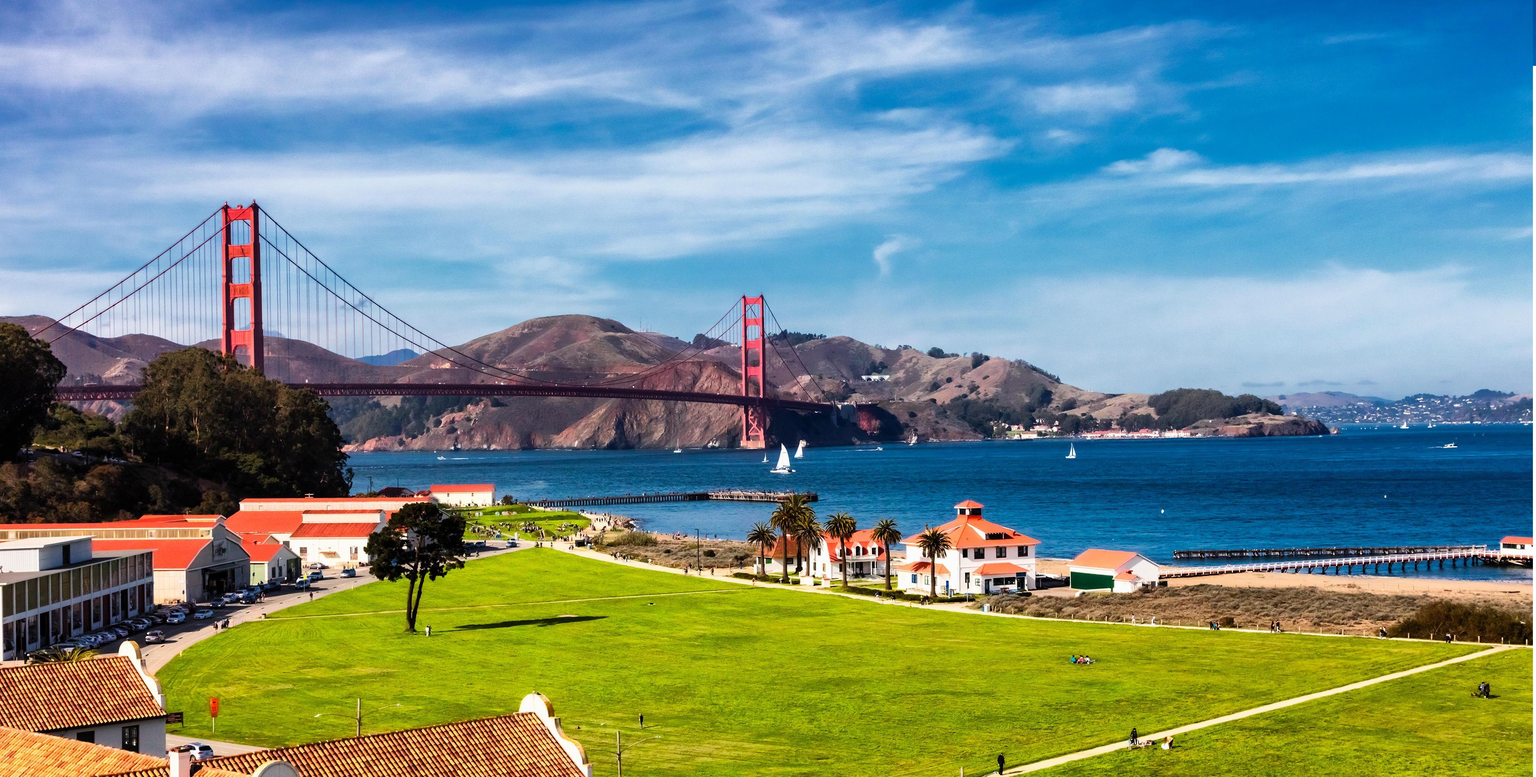
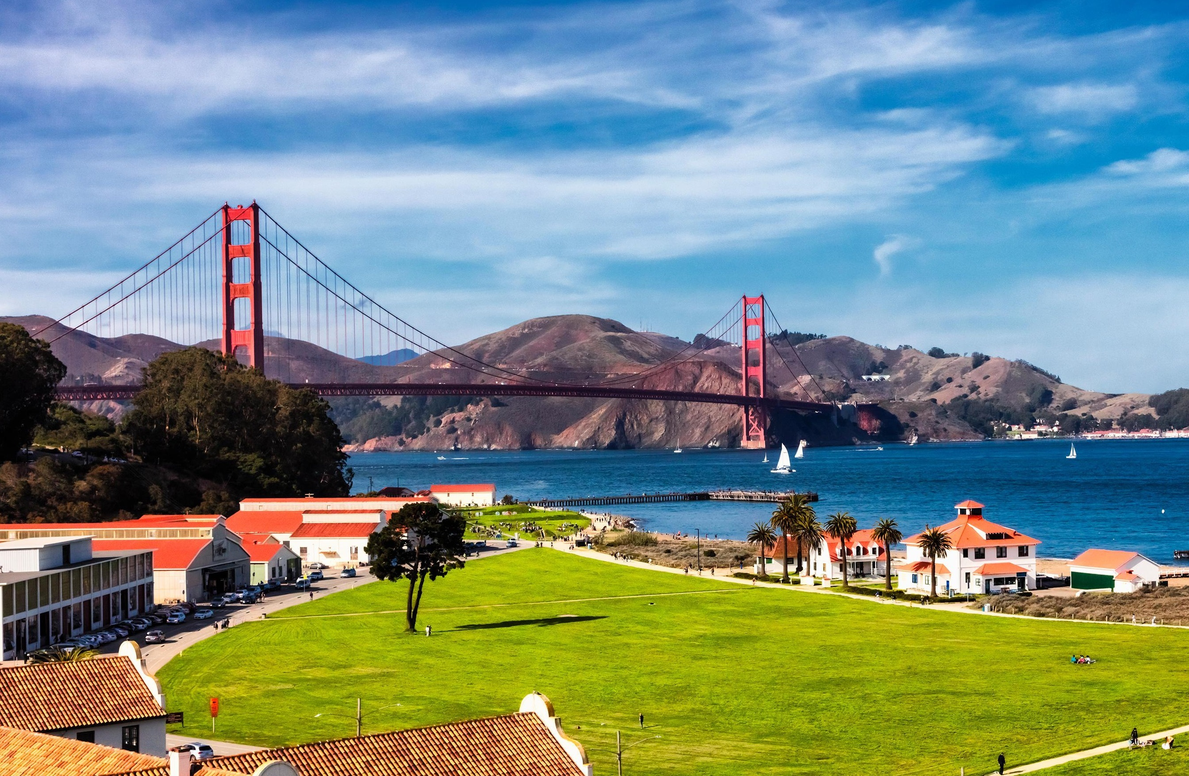
v4

diff --git a/thecity.html b/thecity.html
@@ -49,31 +49,31 @@
       </ol>
       <div class="carousel-inner">
         <div class="carousel-item active">
-          <img class="d-block w-100" src="city1.jpg" alt="First slide">
+          <img class="d-block w-100" src="city1.jpg" alt="First slide" style="width:100%; height:100vh">
         <div class="carousel-content">
           <p>Trolley Ride</p>
         </div>
       </div>
         <div class="carousel-item">
-          <img class="d-block w-100" src="city7.jpg" alt="Second slide">
+          <img class="d-block w-100" src="city7.jpg" alt="Second slide" style="width:100%; height:100vh">
         <div class="carousel-content">
           <p>China Town</p>
         </div>
         </div>
         <div class="carousel-item">
-          <img class="d-block w-100" src="city6.jpg" alt="Third slide">
+          <img class="d-block w-100" src="city6.jpg" alt="Third slide" style="width:100%; height:100vh">
         <div class="carousel-content">
           <p>Painted Ladies</p>
         </div>
         </div>
         <div class="carousel-item">
-          <img class="d-block w-100" src="city5.jpg" alt="Third slide">
+          <img class="d-block w-100" src="city5.jpg" alt="Third slide" style="width:100%; height:100vh">
         <div class="carousel-content">
           <p>Presidio</p>
         </div>
         </div>
         <div class="carousel-item">
-          <img class="d-block w-100" src="city3.jpg" alt="Third slide">
+          <img class="d-block w-100" src="city3.jpg" alt="Third slide" style="width:100%; height:100vh">
         <div class="carousel-content">
           <p>Golden Gate Bridge</p>
         </div>
@@ -89,9 +89,5 @@
       </a>
     </div>
 
-    <nav class="navbar fixed-bottom navbar-dark bg-dark">
-      <h4 class="nav-bottom">San Francisco has only one drawback. 'Tis hard to leave"  - Rudyard Kipling</h4>
-    </nav>
-    <!-- Your stuff goes here -->
   </body>
 </html>

diff --git a/southbay.html b/southbay.html
@@ -47,19 +47,19 @@
       </ol>
       <div class="carousel-inner">
         <div class="carousel-item active">
-          <img class="d-block w-100" src="sb1.jpg" alt="First slide">
+          <img class="d-block w-100" src="sb1.jpg" alt="First slide" style="width:100%; height:100vh">
         <div class="carousel-content">
           <p>Half Moon Bay</p>
         </div>
         </div>
         <div class="carousel-item">
-          <img class="d-block w-100" src="sb2.jpg" alt="Second slide">
+          <img class="d-block w-100" src="sb2.jpg" alt="Second slide" style="width:100%; height:100vh">
         <div class="carousel-content">
           <p>Pfeiffer Beach</p>
         </div>
         </div>
         <div class="carousel-item">
-          <img class="d-block w-100" src="sb3.jpg" alt="Third slide">
+          <img class="d-block w-100" src="sb3.jpg" alt="Third slide" style="width:100%; height:100vh">
           <div class="carousel-content">
             <p>Pacific Coast Highway</p>
           </div>
@@ -74,10 +74,5 @@
         <span class="sr-only">Next</span>
       </a>
     </div>
-
-    <nav class="navbar fixed-bottom navbar-dark bg-dark">
-      <h4 class="nav-bottom">San Francisco has only one drawback. 'Tis hard to leave"  - Rudyard Kipling</h4>
-    </nav>
-
   </body>
 </html>

diff --git a/wine.html b/wine.html
@@ -47,19 +47,19 @@
       </ol>
       <div class="carousel-inner">
         <div class="carousel-item active">
-          <img class="d-block w-100" src="wine1.jpg" alt="First slide">
+          <img class="d-block w-100" src="wine1.jpg" alt="First slide" style="width:100%; height:100vh">
         <div class="carousel-content">
           <p>Napa Valley</p>
         </div>
         </div>
         <div class="carousel-item">
-          <img class="d-block w-100" src="wine4.jpg" alt="Second slide">
+          <img class="d-block w-100" src="wine4.jpg" alt="Second slide" style="width:100%; height:100vh">
         <div class="carousel-content">
           <p>The Redwoods</p>
         </div>
         </div>
         <div class="carousel-item">
-          <img class="d-block w-100" src="wine5.jpg" alt="Third slide">
+          <img class="d-block w-100" src="wine5.jpg" alt="Third slide" style="width:100%; height:100vh">
           <div class="carousel-content">
             <p>Tahoe</p>
           </div>
@@ -74,9 +74,5 @@
         <span class="sr-only">Next</span>
       </a>
     </div>
-    <nav class="navbar fixed-bottom navbar-dark bg-dark">
-      <h4 class="nav-bottom">San Francisco has only one drawback. 'Tis hard to leave"  - Rudyard Kipling</h4>
-    </nav>
-
   </body>
 </html>
